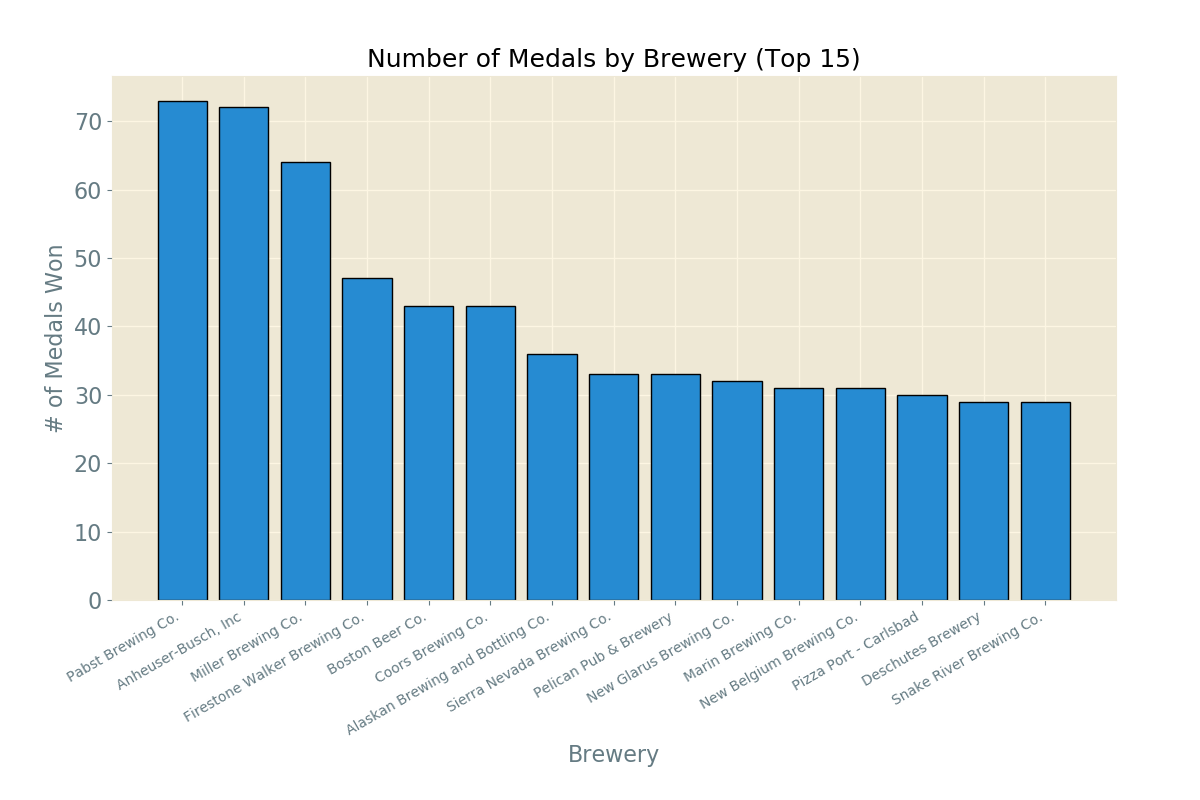
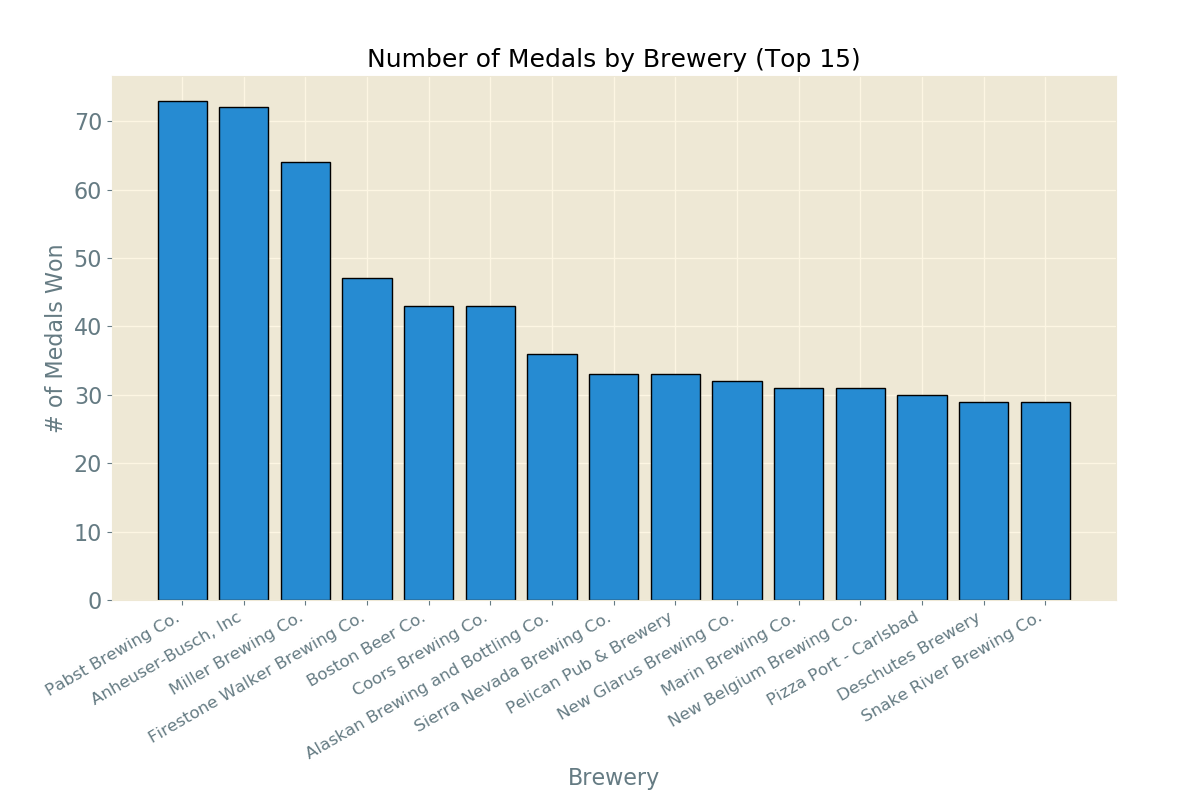
increased font size

diff --git a/src/visualization/gabf_eda.py b/src/visualization/gabf_eda.py
@@ -1,7 +1,6 @@
 import pandas as pd
 import numpy as np
 import matplotlib.pyplot as plt
-from src.utilities.geocode_cities import geocode_cities
 
 def create_line_plot(x_vals, y_vals, x_label, y_label, title, filename):
     """
@@ -69,11 +68,10 @@ def create_bar_chart_medals(df, groupby_col, n, cluster_medals=True):
         x_label_rot = 30
         ha = 'right'
         plt.tight_layout(pad=3)
+        x_label_font_size = 12
         if df_total_medals_top[groupby_col].str.len().max() >= 20:
-            x_label_font_size = 10
             fig.subplots_adjust(bottom=.25)
         else:
-            x_label_font_size = 12
             fig.subplots_adjust(bottom=.2)
     else:
         fig, ax = plt.subplots(1, 1, figsize=(12, 6))
